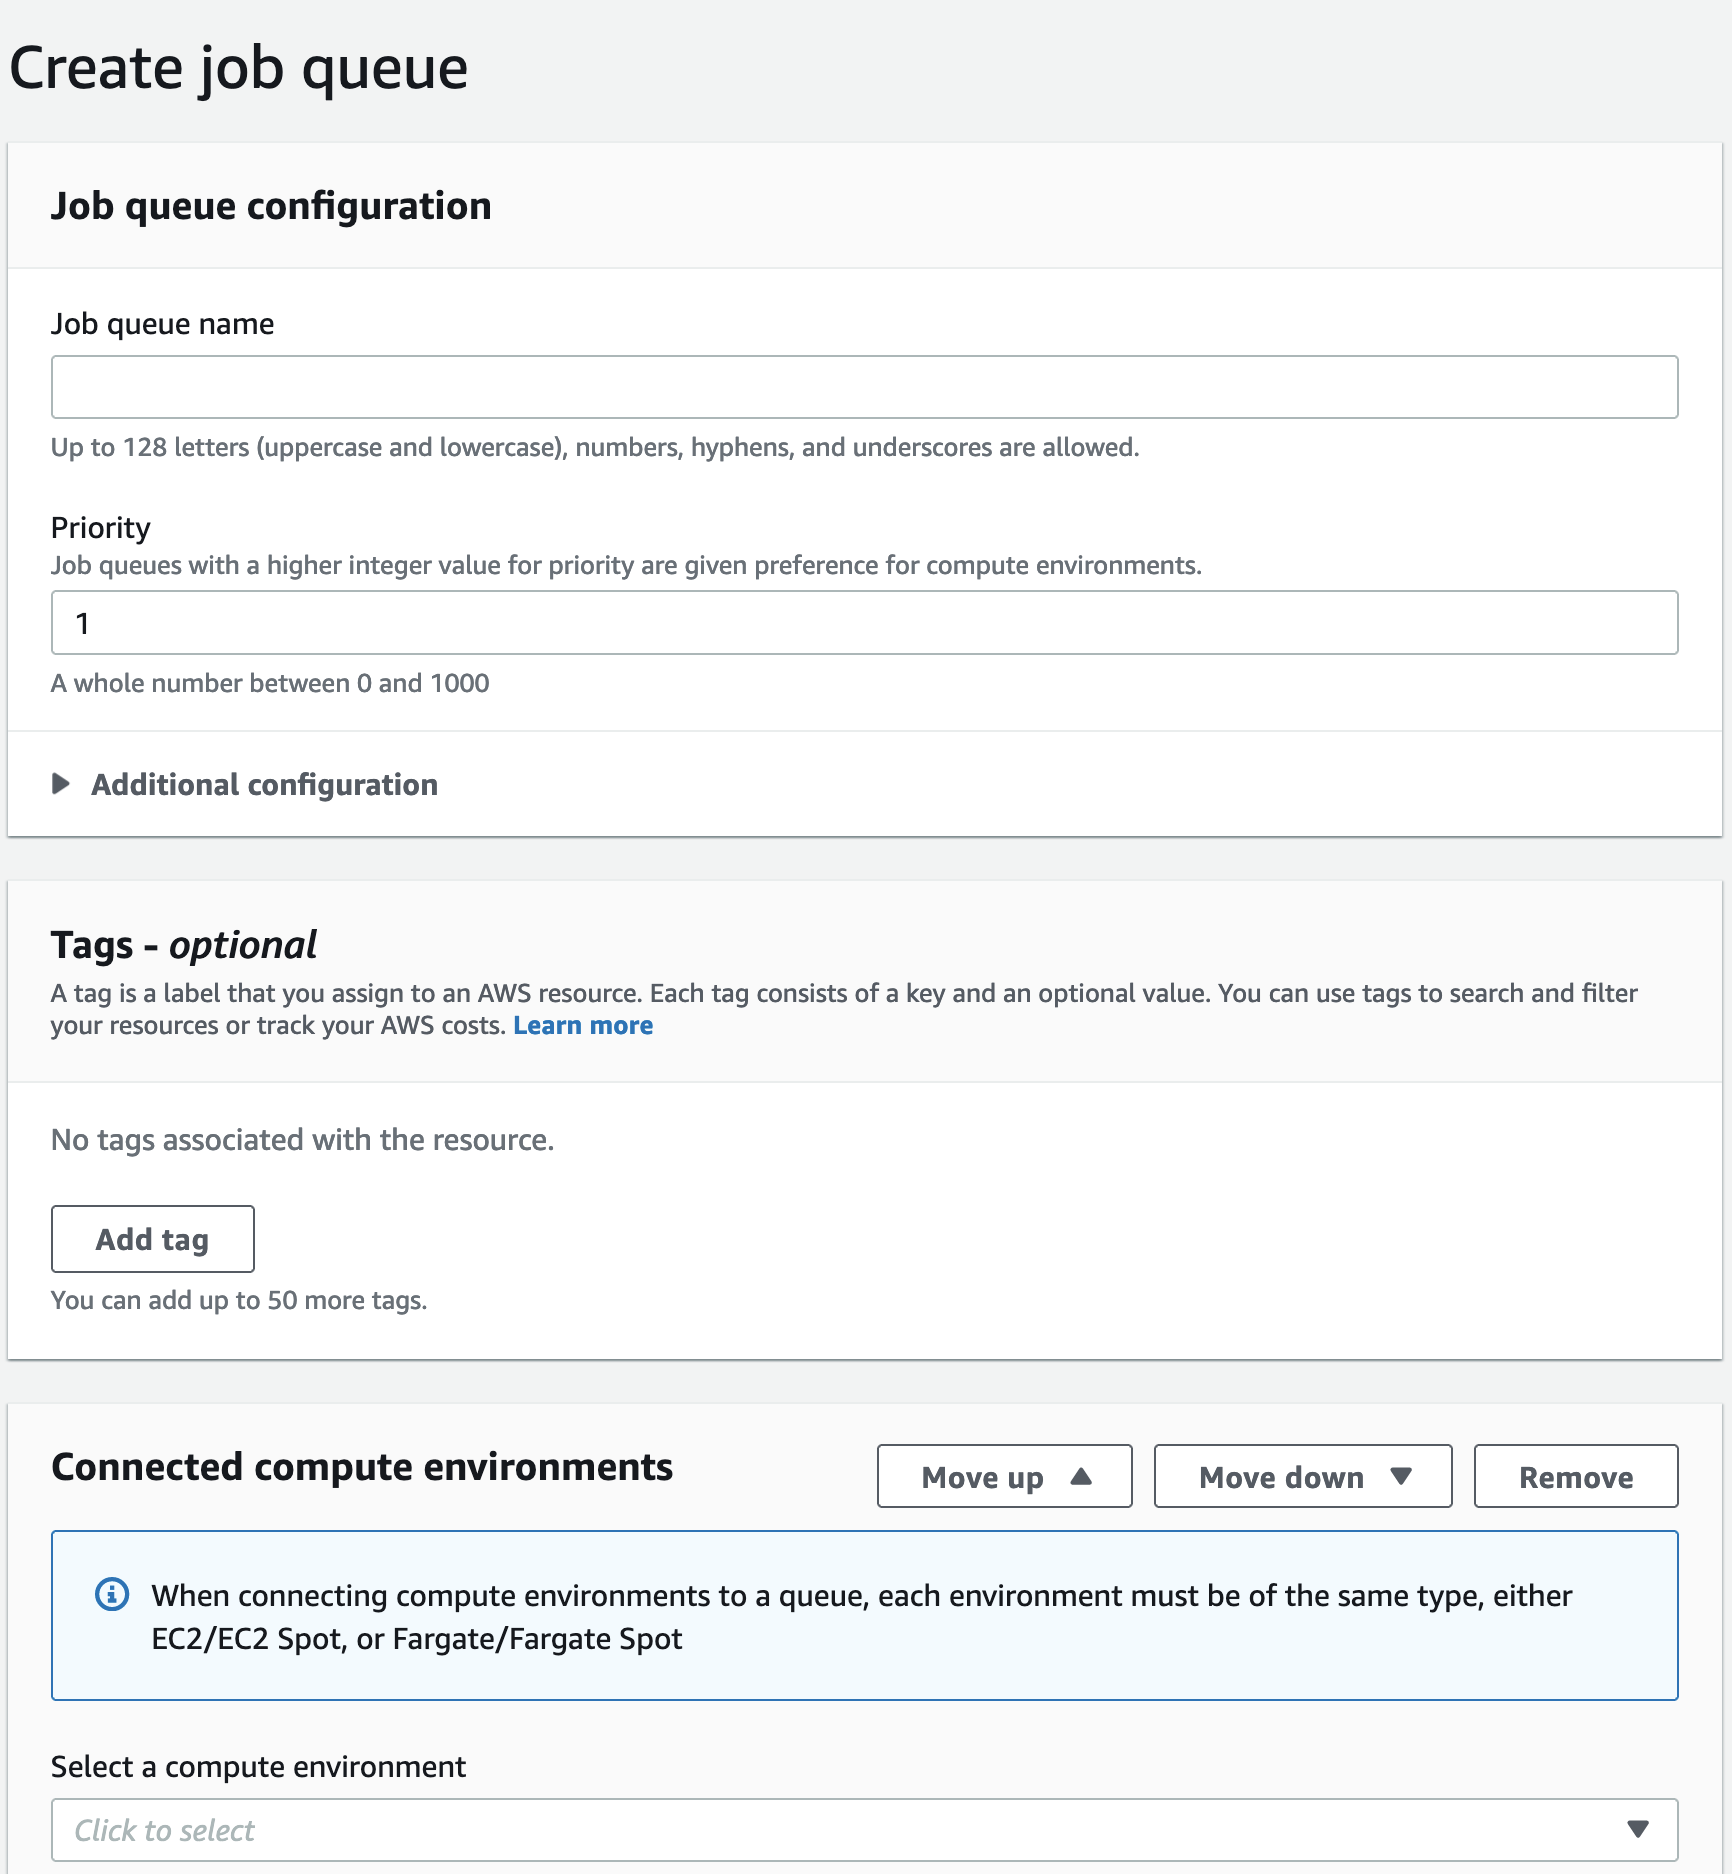
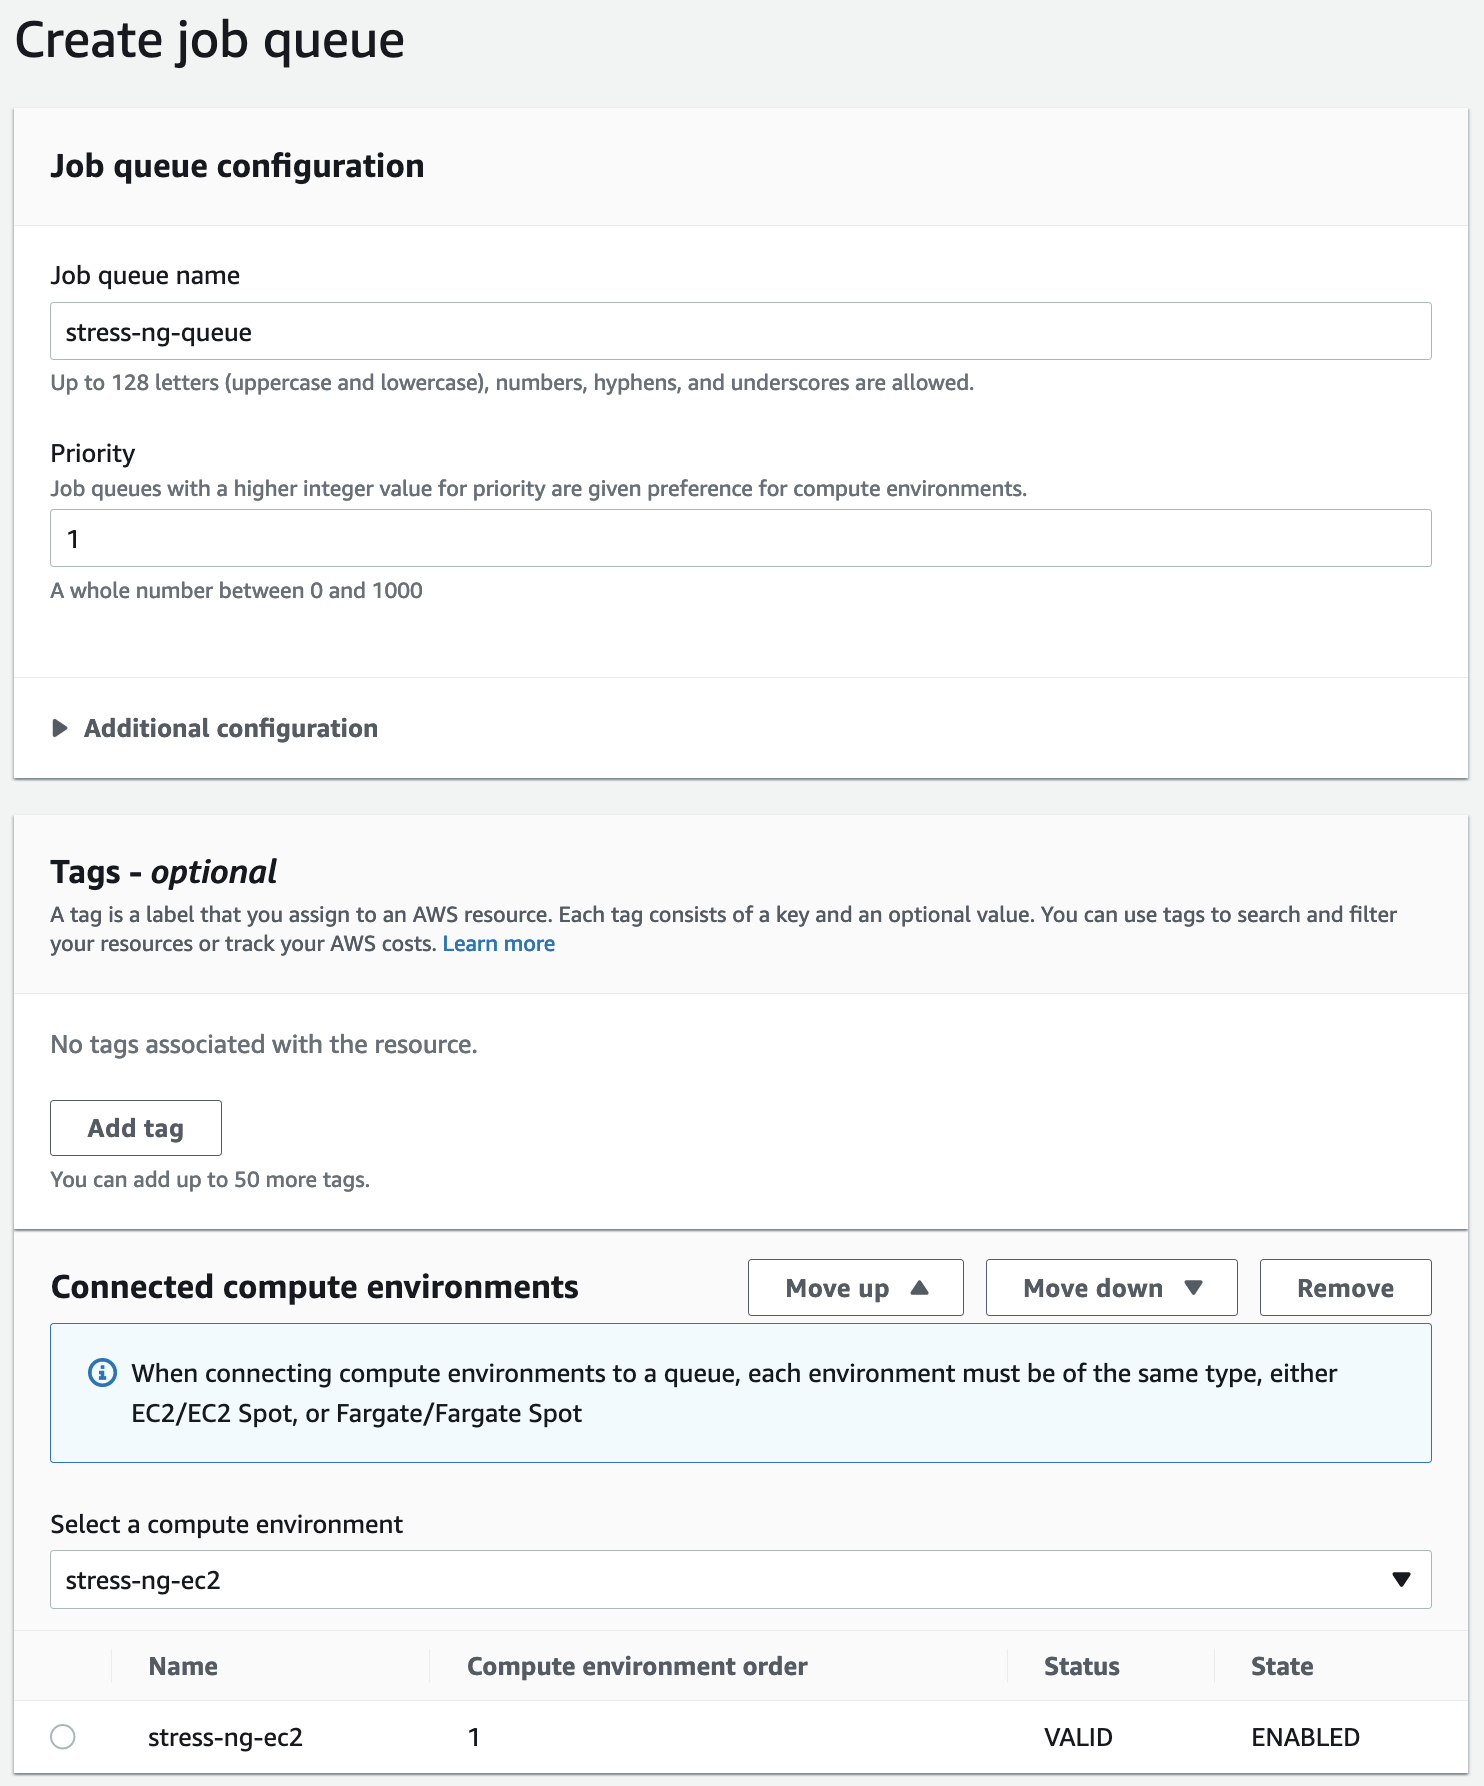
Incorporating some of Simon's changes.

diff --git a/content/05-AWS Batch/05-setup-batch.md b/content/05-AWS Batch/05-setup-batch.md
@@ -26,7 +26,7 @@ Compute environments can be thought of as computational clusters consisting of o
 9. For **Maximum vCPUs** type **256**. This is the upper bound for vCPUs across all concurrently running instances.
 10.  Leave the default value of **0** for **Desired vCPUs - *optional***.
 11.  For **Allowed instance types**, leave the selection as **optimal**.
-12.  Select **BEST_FIT_POGRESSIVE** for **Allocation strategy**
+12.  Select **BEST_FIT_PROGRESSIVE** for **Allocation strategy**
 ![AWS Batch](/images/aws-batch/compute-env-3.png)
 13. Under Networking, for **VPC ID**, choose the Default VPC.
 14. Select all the subnets.
@@ -38,7 +38,7 @@ Compute environments can be thought of as computational clusters consisting of o
 19. Once the environment is ready, it will be visible under **Compute environments** section. Make sure *Status* is **VALID** and *State* is **ENABLED**.
 ![AWS Batch](/images/aws-batch/compute-env-5.png)
 
-At this point, you have done the hard part! Continue to the next step toset up a job queue.
+At this point, you have done the hard part! Continue to the next step to set up a job queue.
 
 
 

diff --git a/content/05-AWS Batch/09-run-job.md b/content/05-AWS Batch/09-run-job.md
@@ -21,9 +21,12 @@ tags = ["tutorial", "install", "AWS", "batch", "Docker"]
 11. Expand the **Additional configuration** section.
 12. Under **Environment variables**, click **Add**.
 13. Set **Name** to: STRESS_ARGS
-14. Set **Value** to: --cpu 0 --cpu-method fft --timeout 1m --times
+14. Set **Value** to: 
+    ```text
+    --cpu 0 --cpu-method fft --timeout 1m --times
+    ```
 ![AWS Batch](/images/aws-batch/run-job-4.png)
-15. Scroll to the bottom and click **Submit**.
+1.  Scroll to the bottom and click **Submit**.
 ![AWS Batch](/images/aws-batch/run-job-5.png)
 
 ### Observe batch job status.
@@ -54,7 +57,7 @@ cat > job.json << EOF
         "environment": [
             {
                 "name": "STRESS_ARGS",
-                "value": "--cpu 0 --cpu-method fft -t 1m --times"
+                "value": "--cpu 0 --cpu-method fft --timeout 1m --times"
             }
         ]
     }

diff --git a/content/05-AWS Batch/08-describe-batch-env.md b/content/05-AWS Batch/08-describe-batch-env.md
@@ -19,5 +19,5 @@ aws batch describe-job-queues
 aws batch describe-job-definitions
 ```
 
-You will see that the *JSON* documnets provided as output for each of these commands that contain the parameters you chose when you set up the **compute environment**, **job queue**, and **job definition**. Keep in mind that the steps you completed up to this point using the AWS management Console can also be completed with the AWS CLI, AWS SDK, or AWS CloudFormation.
+You will see that the *JSON* documents provided as output for each of these commands that contain the parameters you chose when you set up the **compute environment**, **job queue**, and **job definition**. Keep in mind that the steps you completed up to this point using the AWS management Console can also be completed with the AWS CLI, AWS SDK, or AWS CloudFormation.
 

diff --git a/content/05-AWS Batch/00-environment.md b/content/05-AWS Batch/00-environment.md
@@ -18,6 +18,7 @@ In this first step you will ensure the root volume of your Cloud9 instance has a
 3. Click on the Instance ID to see the instance details and click on the storage tab. Click on the Volume ID for the root volume. ![Click on the Storage tab](/images/aws-batch/root-volume-2.png)
 4. Select the root volume for your Cloud9 instance and resize it to be at least 20GB in size by choosing **Actions / Modify volume /**. ![Modify the root volume](/images/aws-batch/root-volume-3.png)
 5. Return to your [ Cloud9 EC2 instance](https://console.aws.amazon.com/ec2/v2/home?#Instances:search=cloud9;sort=desc:launchTime) and start it up by selecting the instance and choosing **Instance state / Start instance /**.
+6. Open your [Cloud9 instance](https://console.aws.amazon.com/cloud9/home).
 
 ### Upgrade to AWS CLI Version 2
 
